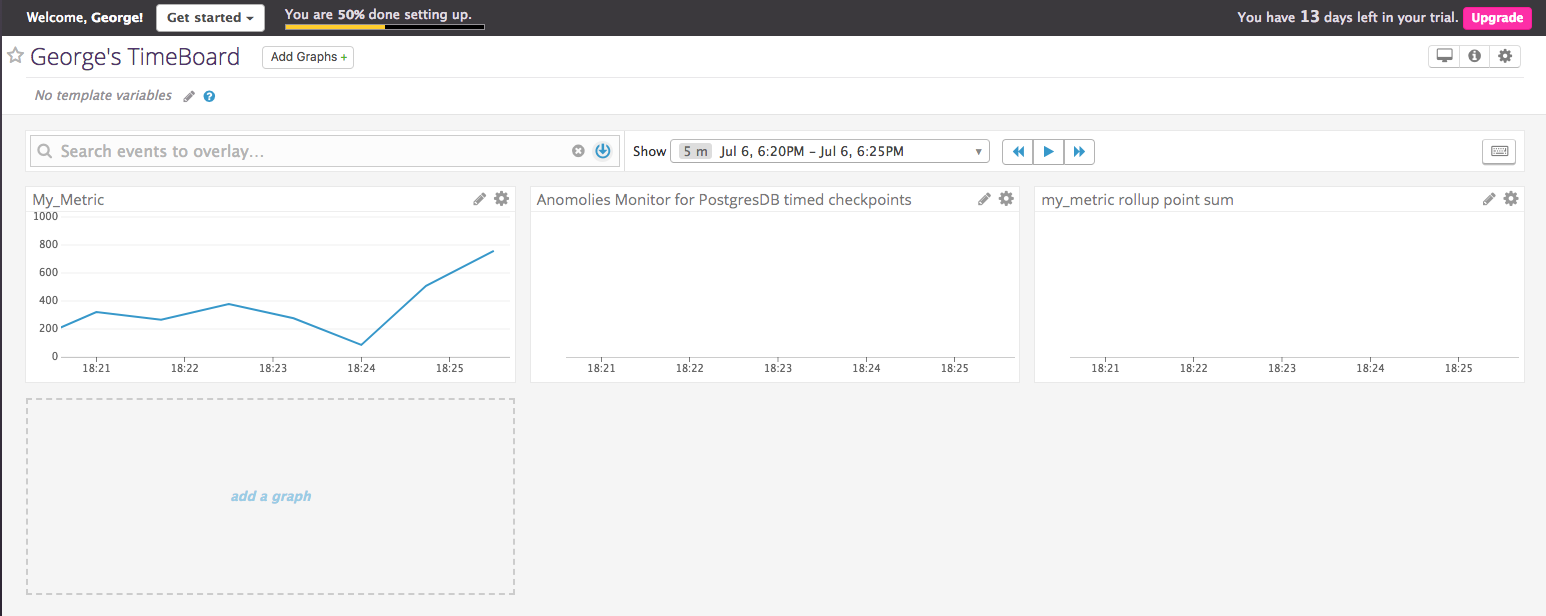
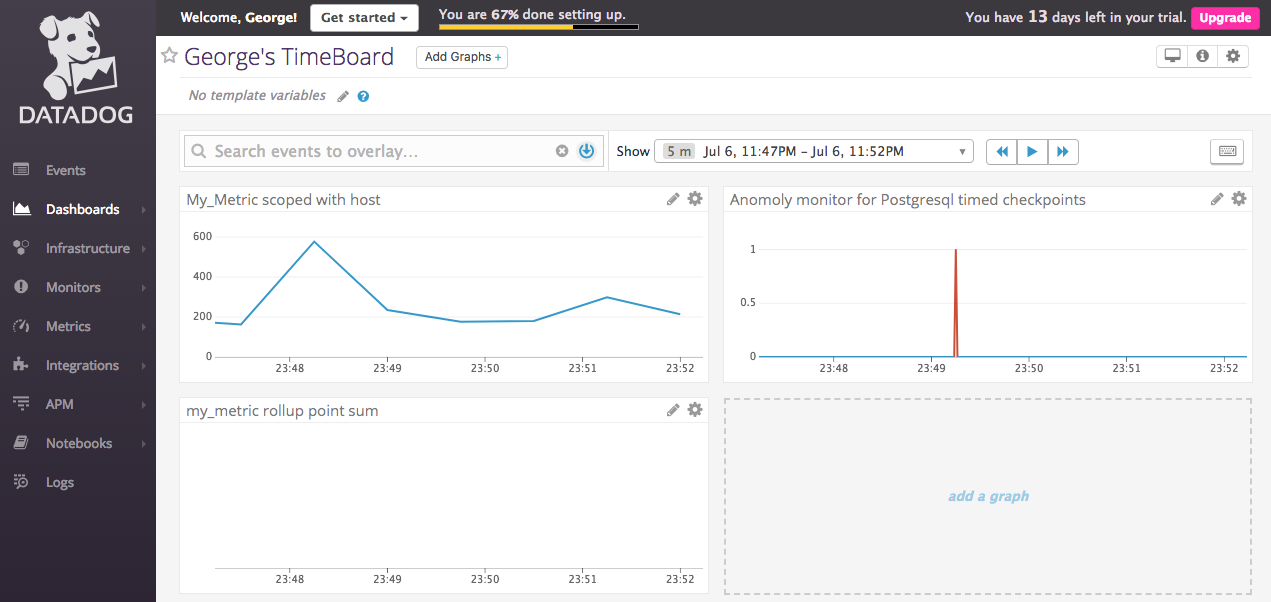
finish rough draft of monitoring data, correct anomoly data

diff --git a/scripts/time_board.py b/scripts/time_board.py
@@ -10,20 +10,22 @@ initialize(**options)
 title = "George's TimeBoard"
 description = "A TimeBoard for solutions engineers."
 graphs = [{
-    "title": "My_Metric",
+    "title": "My_Metric scoped with host",
     "definition": {
         "events": [],
         "requests": [{
-            "q": "avg:my_metric{*}"
+            "q": "avg:my_metric{host:ubuntu-xenial}",
+            "type": "line"
         }]
     },
     "viz": "timeseries"
 }, {
-    "title": "Anomolies Monitor for PostgresDB timed checkpoints",
+    "title": "Anomoly monitor for Postgresql timed checkpoints",
     "definition": {
         "events": [],
         "requests": [{
-            "q": "anomalies(avg:postgresql.bgwriter.checkpoints_timed{role:database:postgresql}, 'basic', 2)"
+            "q": "anomalies(avg:postgresql.bgwriter.checkpoints_timed{host:ubuntu-xenial}, 'basic', 2)",
+            "type": "line"
         }]
     }
 }, {
@@ -32,6 +34,7 @@ graphs = [{
         "events": [],
         "requests": [{
             "q": "avg:my_metric{*}.rollup(sum, 3600)"
+            "type": "line"
         }]
     }
 }]

diff --git a/answers.md b/answers.md
@@ -15,16 +15,16 @@ Once these have been installed it’s time to spin up a fresh Ubuntu VM. The fir
 
 In order to avoid dependency issues I searched the [vagrant cloud](https://app.vagrantup.com/boxes/search) for a Ubuntu 16.04 LTS build (ubuntu/xenial64) and initialized my vagrant with this build. `vagrant init ubuntu/xenial64`.
 
-[Photo of command line prompts initializing Vagrant](images/Prereq/InitializeVagrant)
+[Photo of command line prompts initializing Vagrant](images/Prereq/InitializeVagrant.png)
 
 Now that Vagrant has been initialized you have to run `vagrant up` to start the VM. Once the VM is up and running typing`vagrant ssh` into the command prompt will log you into the to the newly started VM.
 
 When done correctly, your prompt should now look similar to the one below:
-[Vagrant Prompt](images/Prereq/VagrantPrompt)
+[Vagrant Prompt](images/Prereq/VagrantPrompt.png)
 
 After logging into the new virtual machine, you must sign up for data dog in order to get access to my Data Dog agent metrics, your API KEY, and Dashboard.
 
-[Datadog sign up](images/Prereq/DD_API_KEY)
+[Datadog sign up](images/Prereq/DD_API_KEY.png)
 
 I suggest using copying the entire provided prompt and pasting it into the prompt in your VM. Doing this will install DataDogs agent onto your VM, store your API_KEY, and provide access to the DataDog dashboard.
 
@@ -39,7 +39,7 @@ I took some time to read the [tagging documentation](https://docs.datadoghq.com/
 
 Initially the tags weren’t showing up in my Host Map, so I ran `sudo datadog-agent status` to check if my agent was running. It wasn’t.
 
-[Agent not running](images/Collecting_Metrics/AgentNotRunning)
+[Agent not running](images/Collecting_Metrics/AgentNotRunning.png)
 
 I then ran `sudo data dog-agent start` and checked again. The tags can now be viewed under the host map.
 
@@ -49,13 +49,13 @@ I then ran `sudo data dog-agent start` and checked again. The tags can now be vi
 
 I chose to install PostgreSQL as my data base since I had used it in the past. The install is handled by running the command `sudo apt-get install postgresql`.
 
-[PostgreSQL install](images/Collecting_Metrics/PostgresInstall)
+[PostgreSQL install](images/Collecting_Metrics/PostgresInstall.png)
 
 After installing postgres, it’s important to log in to the database in order to setup the data dog integration. `sudo -u postgres -i`.
 
 Once logged in I simply followed the integration instructions from the data dog docs.
 
-[Postgres Integration](images/Collecting_Metrics/Postgres Integration)
+[Postgres Integration](images/Collecting_Metrics/Postgres Integration.png)
 
  I took the provided example at conf.yaml.example, and renamed it conf.yaml, so that I would have uneasily editable template to work with. (`sudo mv conf.yaml.example conf.yaml`).
 
@@ -73,15 +73,15 @@ The first step is to create a check file inside of the checks.d folder.
 
 Next I created the Check inside of the `firstCheck.py` file, and imported the [random pacage](http://www.pythonforbeginners.com/random/how-to-use-the-random-module-in-python) in order to generate integers from 0-1000.
 
-[CheckUsingRandom](images/Colleting_Metrics/CheckUsingRandom)
+[CheckUsingRandom](images/Colleting_Metrics/CheckUsingRandom.png)
 
 Finally, in order to set the interval at which the data was collected, I had to create a  `firstCheck.yaml` file  inside of the conf.d directory that contains the configurations.
 `sudo touch /etc/datadog-agent/conf.d/firstCheck.yaml`
 
-[SettingCheckInterval](images/Colleting_Metrics/SettingCheckInterval)
+[SettingCheckInterval](images/Colleting_Metrics/SettingCheckInterval.png)
 
 “my_metric” can now be viewed in the metrics explorer:
-[MyMetricsExplorer](images/Colleting_Metrics/MyMetricsExplorer)
+[MyMetricsExplorer](images/Colleting_Metrics/MyMetricsExplorer.png)
 
 
 
@@ -95,6 +95,9 @@ I spent a while reading the [documentation](https://docs.datadoghq.com/api/?lang
 
 I chose to use Postman when making my requests after reading this great article [Using Postman with DataDog API’s](https://help.datadoghq.com/hc/en-us/articles/115002182863-Using-Postman-With-Datadog-APIs).
 
+Postman interface:
+[PostManRequest](images/Visualizing_Data/PostmanRequest.png)
+
 My request looks like this:
 
 ```JSON
@@ -102,20 +105,22 @@ My request looks like this:
   "title" : "George's TimeBoard",
     "description" : "A TimeBoard for solutions engineers",
     "graphs" : [{
-        "title": "My_Metric",
+        "title": "My_Metric scoped with host",
         "definition": {
             "events": [],
             "requests": [{
-              "q": "avg:my_metric{*}"
+              "q": "avg:my_metric{host:ubuntu-xenial}",
+              "type": "line"
             }]
         },
       "viz": "timeseries"
     }, {
-        "title": "Anomolies Monitor for PostgresDB timed checkpoints",
+        "title": "Anomoly monitor for Postgresql timed checkpoints",
         "definition": {
           "events": [],
           "requests": [{
-            "q": "anomalies(avg:postgresql.bgwriter.checkpoints_timed{role:database:postgresql}, 'basic', 2)"
+            "q": "anomalies(avg:postgresql.bgwriter.checkpoints_timed{host:ubuntu-xenial}, 'basic', 2)",
+            "type": "line"
           }]
         }
     }, {
@@ -123,7 +128,8 @@ My request looks like this:
         "definition": {
           "events": [],
           "requests": [{
-            "q": "avg:my_metric{*}.rollup(sum, 3600)"
+            "q": "avg:my_metric{host:ubuntu-xenial}.rollup(sum,3600)",
+            "type": "line"
           }]
         }
       }],
@@ -134,19 +140,55 @@ My request looks like this:
 The script version can be viewed at [Georges TimeBoard Script](scripts/time_board.py)
 
 Once the TimeBoard had been created I went to the dash board, and set the timeframe for the past 5 minutes.
-![Georges TimeBoard for the past 5 min](images/Visualizing_Data/PastFiveMins)
+![Georges TimeBoard for the past 5 min](images/Visualizing_Data/PastFiveMins.png)
 
 Next I took a snapshot of my graph and sent it to myself using @george.smsweeper@gmail.com
 
 ![A Snapshot of Georges Graph](images/Visualizing_Data/SnapShot.png)
 
 * **Bonus Question**: What is the Anomaly graph displaying?
-My Anomaly graph isn’t displaying anything at the moment, because I don’t have an “enterprise level subscription”.
-![Image of enterprise sub](images/Visualizing_Data/EnterpriseLevelSub)
 
-However if I had and enterprise level subscription, the graph would display a basic range of expected values as a "cloud", with the actual values superimposed on top.
+My Anomaly graph is displaying a red spike that represents a deviation from an expected range of values. There isn’t much data coming in, and I’m using a basic algorithm, so it will be difficult to build up a long trend and present them in a cloud.
 
 ## Monitoring Data
+
+Our custom metric routinely goes above 800, so we would like to create a monitor that automatically alerts us when this happens. I found the [Monitor Documentation](https://docs.datadoghq.com/monitors/) very helpful when creating my own monitor.
+
+The first thing I did was select a monitor type to create:
+![Metric monitor selection](images/Monitoring_Data/SelectMonitorType.png)
+
+Next I selected the monitor I would like the track:
+![Metric to track](images/Monitoring_Data/SelectMetric.png)
+
+The third step was to create a “Warning” threshold of 500, and “Alerting” threshold of 800 if my_metric exceeds these values in the past 5 minutes:
+![Set alert and warning thresholds](images/Monitoring_Data/AlertThreshold.png)
+
+Next I configured the monitor to notify me if data was missing for more than to minutes:
+![Configure missing data warning](images/Monitoring_Data/MissingDataNotificaiton.png)
+
+Finally I added different messages for Alerts, Warnings and Missing data, and had the monitor notify me by email when a condition was met:
+
+Setting messages:
+![Setting alert messages](images/Monitoring_Data/AlertMessages.png)
+
+Receiving emailed notification:
+![Received notification](images/Monitoring_Data/ReceivedNotification.png)
+
+* **Bonus Question**
+
+In order to complete the bonus requirements,I created two downtimes for the new monitor, and had them email me once they had been configured.
+
+Silences monitor from 7pm to 9am daily on M-F:
+![WeekDay](images/Monitoring_Data/WeekDayDown.png)
+
+Email confirmation:
+![WeekDayConfirm](images/Monitoring_Data/ScheduledWeekDay.png)
+
+Silences monitor on Saturday and Sunday:
+![WeekEnd](images/Monitoring_Data/WeekEndDown.png)
+
+Email confirmation:
+![WeekEndConfirm](images/Monitoring_Data/ScheduledWeekEnd.png)
 
 ## Collecting APM Data:
 
